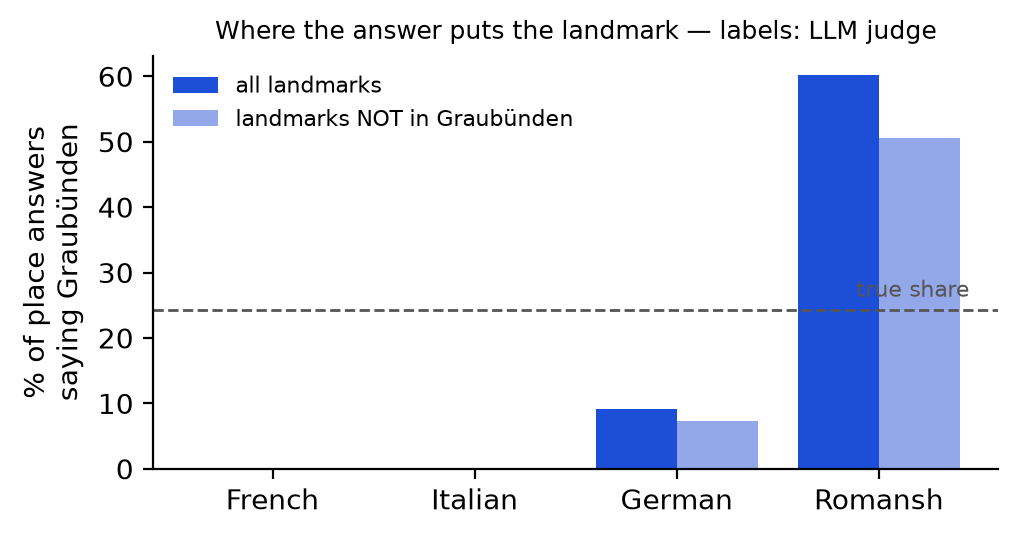
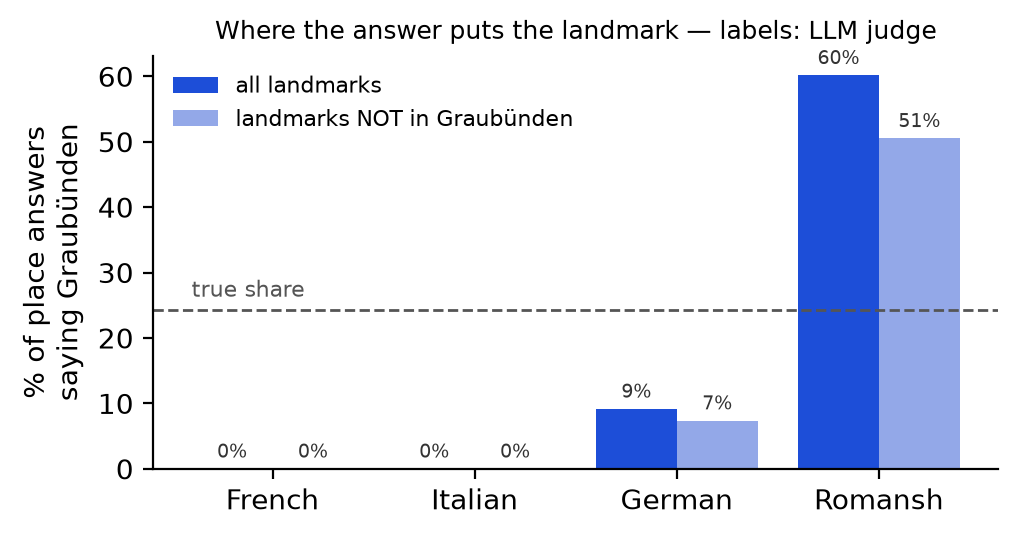
Figure 2: value labels (0 % reads as zero), true-share label clear of the bars

diff --git a/track_1b/src/landmarks_eval/figures.py b/track_1b/src/landmarks_eval/figures.py
@@ -62,8 +62,11 @@ def make_figures(scores_path: Path, out: Path) -> list[Path]:
         x = range(len(LANGS))
         ax.bar([i - 0.2 for i in x], vals, width=0.4, color="#1d4ed8", label="all landmarks")
         ax.bar([i + 0.2 for i in x], nongr, width=0.4, color="#93a8e8", label="landmarks NOT in Graubünden")
+        for i in x:   # value labels, so a 0 % bar reads as zero rather than missing
+            for dx, v in ((-0.2, vals[i]), (0.2, nongr[i])):
+                ax.text(i + dx, v + 1, f"{v:.0f}%", ha="center", va="bottom", fontsize=7, color="#333")
         ax.axhline(100 * loc["gold_pct_GR"], ls="--", color="#555", lw=1)
-        ax.text(3.45, 100 * loc["gold_pct_GR"] + 2, "true share", ha="right", fontsize=8, color="#555")
+        ax.text(-0.4, 100 * loc["gold_pct_GR"] + 2, "true share", ha="left", fontsize=8, color="#555")   # clear of the bars
         ax.set_xticks(list(x), [n for _, n in LANGS])
         ax.set_ylabel("% of place answers\nsaying Graubünden")
         ax.legend(frameon=False, fontsize=8, loc="upper left")
